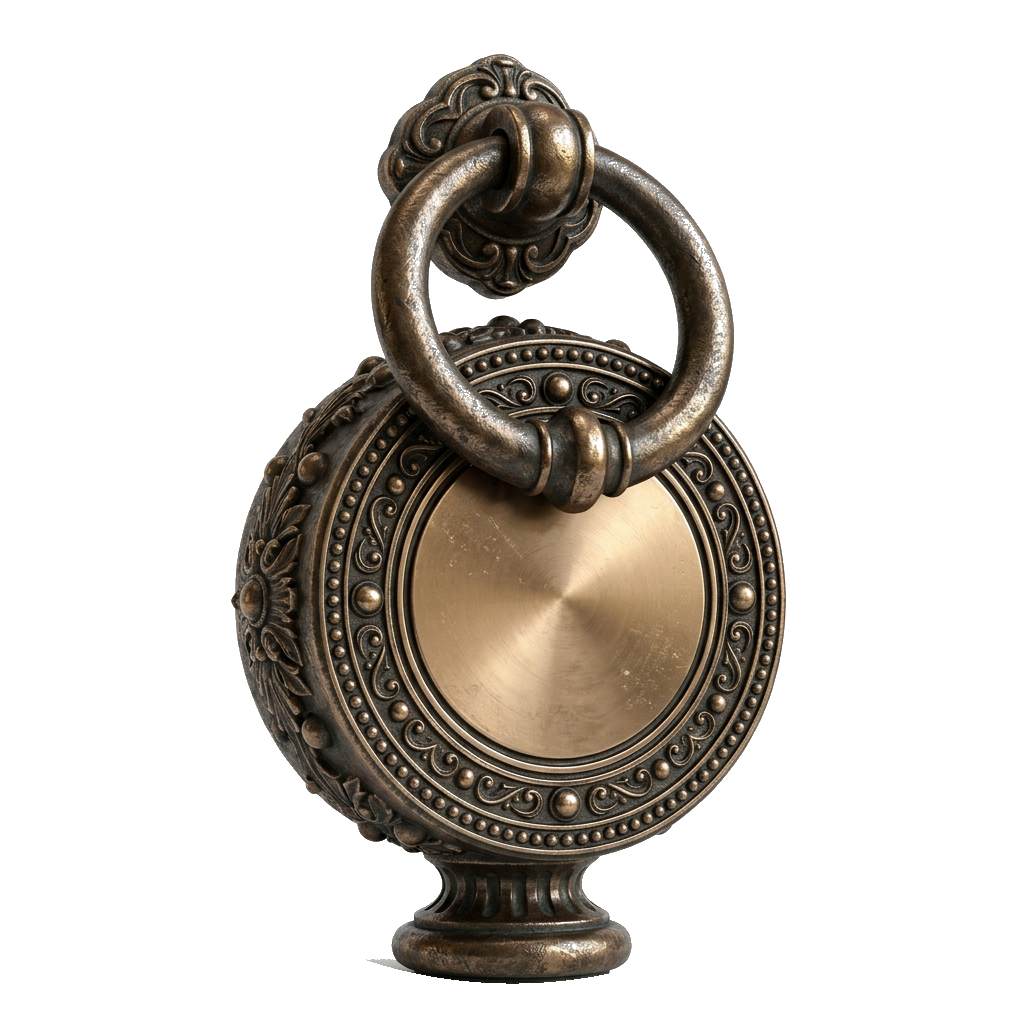
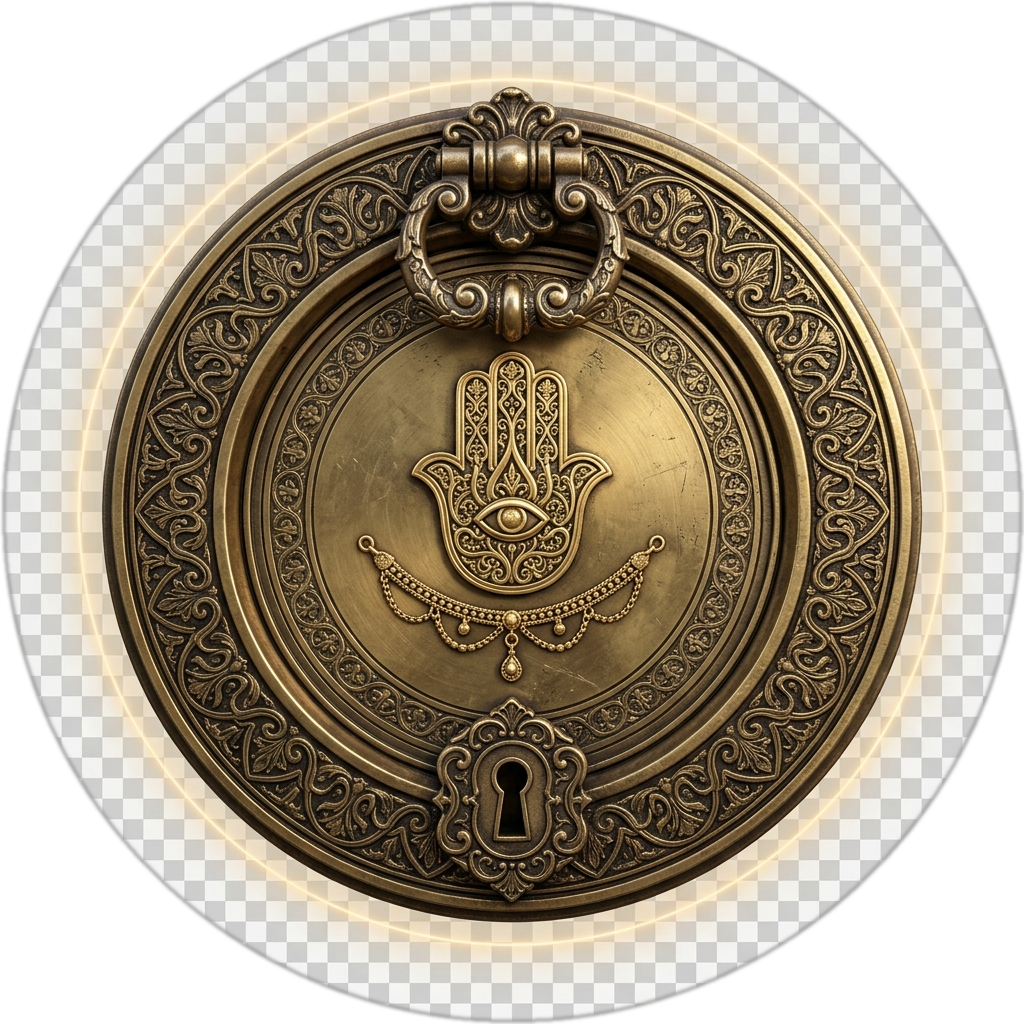
Mynchronisation globale et mise à jour dynamique dans l'Admin

diff --git a/admin.html b/admin.html
@@ -601,6 +601,10 @@
           <div class="pack-card selected" data-pack="60" onclick="selectPack(this)"><div class="pack-num">60</div><div class="pack-label">مشاركة</div><div class="pack-price">⭐ الأكثر شيوعاً</div></div>
           <div class="pack-card" data-pack="100" onclick="selectPack(this)"><div class="pack-num">100</div><div class="pack-label">مشاركة</div><div class="pack-price">باقة كبيرة</div></div>
         </div>
+        <div id="editingBanner" style="display:none; background:rgba(230,126,34,0.15); border:1px solid rgba(230,126,34,0.4); border-radius:8px; padding:10px 14px; margin-bottom:12px; font-size:0.82rem; color:#f39c12; align-items:center; justify-content:space-between;">
+          <span>✏ أنت تقوم حالياً بتعديل الدعوة: <strong id="editingSlugDisplay" style="font-family:monospace"></strong></span>
+          <button class="btn btn-ghost" type="button" style="padding:3px 8px; font-size:0.75rem; color:#fff" onclick="cancelEditingSlug()">✕ إلغاء التعديل</button>
+        </div>
         <button class="btn btn-primary" style="width:100%" id="generateBtn" onclick="generateLink()">
           ✨ إنشاء الرابط
         </button>
@@ -2153,6 +2157,8 @@ async function generateLink() {
 
     // Clear editing state
     window._currentEditingSlug = null;
+    const banner = document.getElementById('editingBanner');
+    if (banner) banner.style.display = 'none';
     document.getElementById('generateBtn').textContent = '✨ إنشاء الرابط';
 
     await renderLinksHistory();
@@ -2202,8 +2208,14 @@ async function renderLinksHistory() {
       });
     });
     hist.sort((a, b) => new Date(b.created) - new Date(a.created));
+
+    const syncHeader = '<div style="background:rgba(201,168,76,0.08); border:1px solid rgba(201,168,76,0.25); border-radius:10px; padding:10px 14px; margin-bottom:14px; display:flex; justify-content:space-between; align-items:center; flex-wrap:wrap; gap:8px;">'
+      + '<div style="font-size:0.8rem; color:var(--gold-light); font-weight:700;">🔄 مزامنة التفضيلات (القاعة، الموسيقى، التاريخ...)</div>'
+      + '<button class="btn btn-outline" style="padding:6px 12px; font-size:0.75rem; border-color:var(--gold); color:var(--gold);" onclick="applyCurrentConfigToAllInvitations()">✨ تحديث جميع الدعوات بالسيرفر</button>'
+      + '</div>';
+
     if (!hist.length) {
-      c.innerHTML = '<div style="color:var(--text-muted);font-size:0.82rem;text-align:center;padding:20px">لا توجد روابط بعد</div>';
+      c.innerHTML = syncHeader + '<div style="color:var(--text-muted);font-size:0.82rem;text-align:center;padding:20px">لا توجد روابط بعد</div>';
       return;
     }
     const prodUrl = val('prodUrlInput');
@@ -2219,7 +2231,7 @@ async function renderLinksHistory() {
     }
     const guestsBase = base.replace('index.html','guests.html').replace(INVITATION_FILE,'guests.html');
 
-    c.innerHTML = hist.map(h => {
+    c.innerHTML = syncHeader + hist.map(h => {
       const invUrl    = base + '?inv=' + h.id;
       const guestsUrl = guestsBase + '?inv=' + h.id;
       const packPct   = h.ps > 0 ? Math.min(100, Math.round((h.guestsUsed / h.ps) * 100)) : 0;
@@ -2300,8 +2312,9 @@ async function renderLinksHistory() {
           + '</details>'
           + wishesHTML
           // Admin actions
-          + '<div style="display:flex;gap:6px;justify-content:flex-end;padding-top:6px;border-top:1px solid rgba(255,255,255,0.05)">'
-            + '<button class="btn btn-ghost" style="padding:4px 8px;font-size:0.72rem;color:var(--gold)" onclick="updateLinkConfig(\'' + h.id + '\')">🔄 تحديث الدعوة</button>'
+          + '<div style="display:flex;gap:6px;justify-content:flex-end;padding-top:6px;border-top:1px solid rgba(255,255,255,0.05);flex-wrap:wrap">'
+            + '<button class="btn btn-ghost" style="padding:4px 8px;font-size:0.72rem;color:var(--gold)" onclick="applyCurrentConfigToInvitation(\'' + h.id + '\')" title="تطبيق إعدادات اللوحة الحالية فوراً على هذه الدعوة">🔄 تحديث بالإعدادات الحالية</button>'
+            + '<button class="btn btn-ghost" style="padding:4px 8px;font-size:0.72rem;color:var(--text-muted)" onclick="loadInvitationConfig(\'' + h.id + '\')" title="تعديل تفاصيل هذه الدعوة في لوحة التحكم">📥 تعديل في اللوحة</button>'
             + '<button class="btn btn-ghost" style="padding:4px 8px;font-size:0.72rem;color:#e74c3c" onclick="deleteLink(\'' + h.id + '\')">🗑 حذف</button>'
           + '</div>'
         + '</div>'
@@ -2347,8 +2360,75 @@ function updateCounter(slug, data) {
     </div>`;
 }
 
-// ── Update existing invitation config ──
-async function updateLinkConfig(slug) {
+function cancelEditingSlug() {
+  window._currentEditingSlug = null;
+  const banner = document.getElementById('editingBanner');
+  if (banner) banner.style.display = 'none';
+  document.getElementById('generateBtn').textContent = '✨ إنشاء الرابط';
+  showToast('ℹ تم إلغاء نمط التعديل');
+}
+
+async function applyCurrentConfigToInvitation(slug) {
+  try {
+    initFirebase();
+    await saveAll();
+    const cfg = buildConfig();
+    cfg.id = slug;
+    
+    const docRef = _db.collection('invitations').doc(slug);
+    const doc = await docRef.get();
+    if (!doc.exists) {
+      showToast('❌ الدعوة غير موجودة على السيرفر');
+      return;
+    }
+    
+    await docRef.update({
+      config: cfg,
+      updated: firebase.firestore.FieldValue.serverTimestamp()
+    });
+    
+    showToast(`✅ تم تحديث تفضيلات الدعوة (${slug}) بالإعدادات الحالية بنجاح!`);
+    await renderLinksHistory();
+  } catch (err) {
+    console.error('Error updating invitation config:', err);
+    showToast('❌ فشل تحديث إعدادات الدعوة: ' + err.message);
+  }
+}
+
+async function applyCurrentConfigToAllInvitations() {
+  try {
+    initFirebase();
+    const querySnapshot = await _db.collection('invitations').get();
+    if (querySnapshot.empty) {
+      showToast('⚠ لا توجد دعوات على السيرفر لتحديثها');
+      return;
+    }
+    
+    if (!confirm(`هل أنت متأكد من تحديث جميع الدعوات (${querySnapshot.size}) المحفوظة بالسيرفر وتطبيق تفضيلات التحكم الحالية (القاعة، الموسيقى، التاريخ...) عليها جميعاً؟`)) {
+      return;
+    }
+    
+    await saveAll();
+    const cfg = buildConfig();
+    
+    const batch = _db.batch();
+    querySnapshot.forEach(doc => {
+      batch.update(doc.ref, {
+        config: { ...cfg, id: doc.id },
+        updated: firebase.firestore.FieldValue.serverTimestamp()
+      });
+    });
+    
+    await batch.commit();
+    showToast(`🎉 تم تحديث جميع الدعوات (${querySnapshot.size}) بالإعدادات الحالية بنجاح!`);
+    await renderLinksHistory();
+  } catch (err) {
+    console.error('Error updating all invitations:', err);
+    showToast('❌ فشل تحديث جميع الدعوات: ' + err.message);
+  }
+}
+
+async function loadInvitationConfig(slug) {
   try {
     initFirebase();
     const doc = await _db.collection('invitations').doc(slug).get();
@@ -2366,18 +2446,28 @@ async function updateLinkConfig(slug) {
     // Set editing state
     window._currentEditingSlug = slug;
     
-    // Update button text
-    document.getElementById('generateBtn').textContent = '✅ تحديث الدعوة';
+    // Update banner & button text
+    const banner = document.getElementById('editingBanner');
+    const slugDisp = document.getElementById('editingSlugDisplay');
+    if (banner && slugDisp) {
+      slugDisp.textContent = slug;
+      banner.style.display = 'flex';
+    }
+    document.getElementById('generateBtn').textContent = '✅ حفظ وتحديث الدعوة';
     
     // Switch to the couple page to show the loaded config
     showPage('page-couple');
     
-    showToast('✅ تم تحميل إعدادات الدعوة - يمكنك الآن تعديلها وحفظ التغييرات');
+    showToast(`✅ تم تحميل إعدادات الدعوة (${slug}) للوحة التحكم - يمكنك الآن تعديلها وحفظ التغييرات`);
     
   } catch (err) {
     console.error('Error loading invitation config:', err);
     showToast('❌ فشل تحميل الإعدادات');
   }
+}
+
+async function updateLinkConfig(slug) {
+  await applyCurrentConfigToInvitation(slug);
 }
 
 function shareHistLink(url) {

diff --git a/guests.html b/guests.html
@@ -1,4 +1,4 @@
-<!DOCTYPE html>
+<!DOCTYPE html>
 <html lang="ar" dir="rtl">
 <head>
 <meta charset="UTF-8">
@@ -152,6 +152,29 @@ details[open] .chevron{transform:rotate(180deg)}
   </div>
 </div>
 
+<div id="edit-modal" style="display:none; position:fixed; inset:0; z-index:10000; align-items:center; justify-content:center; padding:18px;">
+  <div style="position:absolute; inset:0; background:rgba(10,6,2,0.8); backdrop-filter:blur(8px);" onclick="closeEditModal()"></div>
+  <div style="position:relative; background:var(--bg2); border:1px solid var(--border); width:100%; max-width:440px; border-radius:20px; padding:24px; box-shadow:0 20px 60px rgba(0,0,0,0.6); z-index:10; font-family:'Amiri',serif; direction:rtl;">
+    <button style="position:absolute; top:14px; left:14px; background:none; border:none; font-size:1.2rem; color:var(--muted); cursor:pointer;" onclick="closeEditModal()">✕</button>
+    <div style="font-size:1.15rem; color:var(--gold); font-weight:700; margin-bottom:16px; display:flex; align-items:center; gap:8px;">
+      ✏ تعديل بيانات المدعو واللقب
+    </div>
+    <input type="hidden" id="edit-guest-id">
+    <div class="field">
+      <label>اسم المدعو أو العائلة</label>
+      <input id="edit-name" class="f-input" type="text" placeholder="اسم المدعو..." autocomplete="off">
+    </div>
+    <div class="field">
+      <label>صيغة التوجيه / اللقب على الدعوة</label>
+      <div class="formula-grid" id="edit-formula-grid"></div>
+    </div>
+    <div style="display:flex; gap:10px; margin-top:18px;">
+      <button class="btn-primary" onclick="saveGuestEdit()" style="flex:2;">💾 حفظ التغييرات</button>
+      <button class="btn-primary" onclick="closeEditModal()" style="flex:1; background:rgba(255,255,255,0.08); color:var(--text);">إلغاء</button>
+    </div>
+  </div>
+</div>
+
 <div id="toast"></div>
 
 <script src="https://www.gstatic.com/firebasejs/10.12.2/firebase-app-compat.js"></script>
@@ -169,7 +192,7 @@ const FIREBASE_CONFIG = {
 };
 let _fbApp=null,_db=null;
 function initFirebase(){if(_fbApp)return;_fbApp=firebase.initializeApp(FIREBASE_CONFIG);_db=firebase.firestore()}
-let _slug='',_invData=null,_guests=[],_addFormula='ar_couple',_bulkFormula='ar_couple',_filterQ='';
+let _slug='',_invData=null,_guests=[],_addFormula='ar_couple',_bulkFormula='ar_couple',_editFormula='ar_couple',_filterQ='';
 const FORMULAS=[
   {value:'ar_couple',          label:'إلى السيد ... وحرمه',           badge:'b-arc', emoji:'👨👩👧'},
   {value:'ar_couple_children', label:'إلى السيد ... وحرمه وأبنائه', badge:'b-arcc',emoji:'👨👩👦👦'},
@@ -214,11 +237,12 @@ window.addEventListener('DOMContentLoaded',()=>{
 function renderFormulaGrid(containerId,mode){
   const grid=document.getElementById(containerId);
   if(!grid)return;
-  const active=mode==='bulk'?_bulkFormula:_addFormula;
+  const active=mode==='bulk'?_bulkFormula:mode==='edit'?_editFormula:_addFormula;
   grid.innerHTML=FORMULAS.map(f=>`<button class="f-btn ${f.value===active?'active':''}" onclick="selectFormula('${f.value}','${mode}',this)">${f.emoji} ${f.label}</button>`).join('');
 }
 function selectFormula(value,mode,btn){
   if(mode==='bulk'){_bulkFormula=value;document.querySelectorAll('#bulk-formula-grid .f-btn').forEach(b=>b.classList.remove('active'))}
+  else if(mode==='edit'){_editFormula=value;document.querySelectorAll('#edit-formula-grid .f-btn').forEach(b=>b.classList.remove('active'))}
   else{_addFormula=value;document.querySelectorAll('#add-formula-grid .f-btn').forEach(b=>b.classList.remove('active'))}
   btn.classList.add('active');
 }
@@ -314,6 +338,37 @@ function deleteGuest(id){
   renderGuestList();updateStats();
   saveGuests().then(()=>{checkPackUI();showToast('🗑 تم الحذف')}).catch(()=>{_guests=prev;renderGuestList();updateStats();showToast('❌ فشل الحذف')});
 }
+function openEditModal(id){
+  const g=_guests.find(g=>g.id===id);
+  if(!g)return;
+  document.getElementById('edit-guest-id').value=g.id;
+  document.getElementById('edit-name').value=g.name;
+  _editFormula=g.type||'ar_couple';
+  renderFormulaGrid('edit-formula-grid','edit');
+  document.getElementById('edit-modal').style.display='flex';
+}
+function closeEditModal(){
+  document.getElementById('edit-modal').style.display='none';
+}
+function saveGuestEdit(){
+  const id=document.getElementById('edit-guest-id').value;
+  const name=document.getElementById('edit-name').value.trim();
+  if(!name){showToast('⚠ أدخل اسم المدعو');return}
+  const idx=_guests.findIndex(g=>g.id===id);
+  if(idx===-1)return;
+  const prev={..._guests[idx]};
+  _guests[idx].name=name;
+  _guests[idx].type=_editFormula;
+  saveGuests().then(()=>{
+    closeEditModal();
+    renderGuestList();
+    showToast('✅ تم تعديل بيانات '+name+' بنجاح');
+  }).catch(()=>{
+    _guests[idx]=prev;
+    renderGuestList();
+    showToast('❌ فشل حفظ التعديلات');
+  });
+}
 async function saveGuests(){
   initFirebase();
   await _db.collection('invitations').doc(_slug).update({guests:_guests.map(g=>({id:g.id,name:g.name,type:g.type,createdAt:g.createdAt,views:g.views||0}))});
@@ -344,6 +399,9 @@ function renderGuestList(){
         ${photoBadge}
       </div>
       <div class="guest-actions">
+        <button class="btn-icon" title="تعديل البيانات واللقب" onclick="openEditModal('${g.id}')">
+          <svg width="14" height="14" fill="none" stroke="currentColor" stroke-width="2" viewBox="0 0 24 24"><path d="M11 4H4a2 2 0 0 0-2 2v14a2 2 0 0 0 2 2h14a2 2 0 0 0 2-2v-7"/><path d="M18.5 2.5a2.121 2.121 0 0 1 3 3L12 15l-4 1 1-4 9.5-9.5z"/></svg>
+        </button>
         <button class="btn-icon" title="نسخ الرابط البسيط" onclick="copyLink('${g.id}')">
           <svg width="15" height="15" fill="currentColor" viewBox="0 0 16 16"><path d="M4 1.5H3a2 2 0 0 0-2 2V14a2 2 0 0 0 2 2h10a2 2 0 0 0 2-2V3.5a2 2 0 0 0-2-2h-1v1h1a1 1 0 0 1 1 1V14a1 1 0 0 1-1 1H3a1 1 0 0 1-1-1V3.5a1 1 0 0 1 1-1h1v-1z"/><path d="M9.5 1a.5.5 0 0 1 .5.5v1a.5.5 0 0 1-.5.5h-3a.5.5 0 0 1-.5-.5v-1a.5.5 0 0 1 .5-.5h3zm-3-1A1.5 1.5 0 0 0 5 1.5v1A1.5 1.5 0 0 0 6.5 4h3A1.5 1.5 0 0 0 11 2.5v-1A1.5 1.5 0 0 0 9.5 0h-3z"/></svg>
         </button>

diff --git a/style.css b/style.css
@@ -2438,15 +2438,54 @@ body.env-open .animated-bride-family {
   justify-content: center;
   align-items: center;
   width: 250px;           /* slightly reduced width for a delicate look */
-  background: rgba(247, 240, 222, 0.55);   /* semi-transparent warm cream matching envelope */
-  border: 1px solid rgba(201, 168, 76, 0.4); /* soft gold border */
+  background: rgba(247, 240, 222, 0.65);   /* semi-transparent warm cream matching envelope */
+  border: 1.5px solid rgba(201, 168, 76, 0.55); /* gold border */
   box-shadow: 
-    inset 0 0 12px rgba(201, 168, 76, 0.1),
-    0 4px 20px rgba(0, 0, 0, 0.05);
+    inset 0 0 12px rgba(201, 168, 76, 0.12),
+    0 6px 22px rgba(0, 0, 0, 0.08);
   border-radius: 10px;     /* soft card shape */
   padding: 8px 16px;       /* reduced padding */
-  backdrop-filter: blur(3px);
+  backdrop-filter: blur(4px);
   animation: guestBannerFadeIn 1.4s cubic-bezier(0.16, 1, 0.3, 1) both 0.5s;
+  overflow: visible !important;
+}
+
+/* ── Mini 3D Wax Seal sealing the guest label onto envelope ── */
+.guest-seal-mini {
+  position: absolute;
+  bottom: -17px;
+  left: 50%;
+  transform: translateX(-50%);
+  width: 34px;
+  height: 34px;
+  border-radius: 50%;
+  background: radial-gradient(
+    circle at 36% 30%,
+    #fffef5 0%,
+    #fdf0b0 15%,
+    #f0c84a 38%,
+    #c9930c 68%,
+    #7a4e08 100%
+  );
+  box-shadow:
+    0 4px 10px rgba(45, 22, 4, 0.45),
+    0 0 0 2px rgba(201, 168, 76, 0.6),
+    inset 0 2px 4px rgba(255, 255, 220, 0.6),
+    inset 0 -2px 4px rgba(0, 0, 0, 0.35);
+  display: flex;
+  justify-content: center;
+  align-items: center;
+  z-index: 5;
+  overflow: hidden;
+  pointer-events: none;
+}
+
+.guest-seal-img {
+  width: 100%;
+  height: 100%;
+  object-fit: cover;
+  mix-blend-mode: multiply;
+  filter: brightness(1.1) contrast(1.05);
 }
 
 /* Hide nominative card completely when invitation is opened */

diff --git a/app.js b/app.js
@@ -1500,17 +1500,7 @@ function applyEnvelopeDesign(cfg) {
       } else if (seal === 'lock') {
         sealImg.src = 'assets/lock_wax_seal.png?v=25';
         if (sealMonoText) {
-          sealMonoText.style.display = 'flex';
-          const brideName = (cfg.ba || 'العروسة').trim();
-          sealMonoText.style.fontFamily = "'Amiri', serif";
-          sealMonoText.style.fontSize = brideName.length > 10 ? "1.2rem" : "1.6rem";
-          sealMonoText.style.flexDirection = 'row';
-          sealMonoText.innerHTML = '';
-
-          const nameSpan = document.createElement('span');
-          nameSpan.textContent = brideName;
-          nameSpan.className = 'mono-letter lock-bride-name';
-          sealMonoText.appendChild(nameSpan);
+          sealMonoText.style.display = 'none';
         }
       } else if (seal === 'amazigh' || seal === 'zellige') {
         sealImg.src = seal === 'amazigh' ? 'assets/amazigh_wax_seal.png?v=25' : 'assets/zellige_wax_seal.png?v=25';
@@ -1536,6 +1526,16 @@ function applyEnvelopeDesign(cfg) {
     }
     sealImg.style.opacity = '1';
     _sealApplied = true; // Mark seal as applied to prevent future changes
+
+    // Update mini wax seals on guest banners
+    const miniSealSrc = (seal === 'monogram') ? 'assets/monogram_wax_seal_bg.png' :
+                        (seal === 'lock') ? 'assets/lock_wax_seal.png' :
+                        (seal === 'amazigh') ? 'assets/amazigh_wax_seal.png' :
+                        (seal === 'zellige') ? 'assets/zellige_wax_seal.png' :
+                        `assets/${seal}_wax_seal.png`;
+    document.querySelectorAll('.guest-seal-img').forEach(img => {
+      img.src = miniSealSrc;
+    });
   }
 
   // Sync Day/Night mode icon

diff --git a/index.html b/index.html
@@ -545,6 +545,9 @@
         <div class="guest-card-name" id="guestBannerLabel">...</div>
         <div class="guest-card-deco">— ✦ —</div>
       </div>
+      <div class="guest-seal-mini">
+        <img src="assets/heart_wax_seal.png" alt="Seal" class="guest-seal-img">
+      </div>
     </div>
 
     <!-- ⑧ Role Inscription — shown when ?view=groom or ?view=bride -->
@@ -554,6 +557,9 @@
         <div class="guest-card-title" id="role-inscription-title">...</div>
         <div class="guest-card-name" id="role-inscription-sub">...</div>
         <div class="guest-card-deco">— ✦ —</div>
+      </div>
+      <div class="guest-seal-mini">
+        <img src="assets/heart_wax_seal.png" alt="Seal" class="guest-seal-img">
       </div>
     </div>
 
